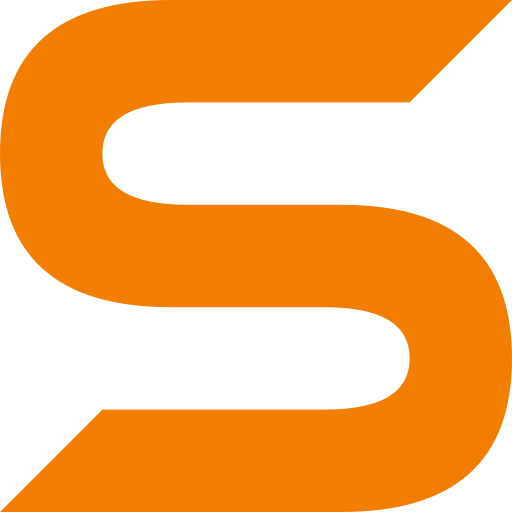
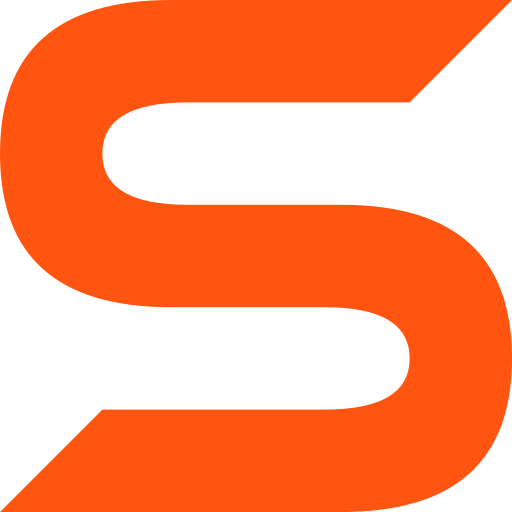
Update styles

diff --git a/_includes/custom.css b/_includes/custom.css
@@ -1,9 +1,5 @@
 .logo .first-letter {
-	color: #095cae;
-}
-
-.dark .logo .first-letter {
-	color: #ff7f2a;
+	color: #ff5511;
 }
 
 .logo svg path {
@@ -11,7 +7,10 @@
   transition: color 0.3s ease-in-out;
 }
 
+.dark .logo .first-letter {
+	color: #ff5511;
+}
+
 .dark .logo svg path {
   color: darkgray;
 }
-
